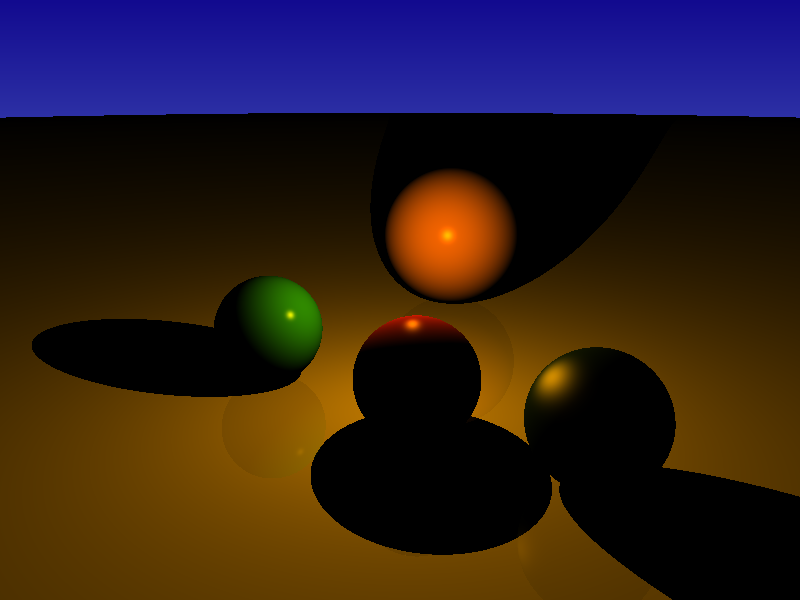
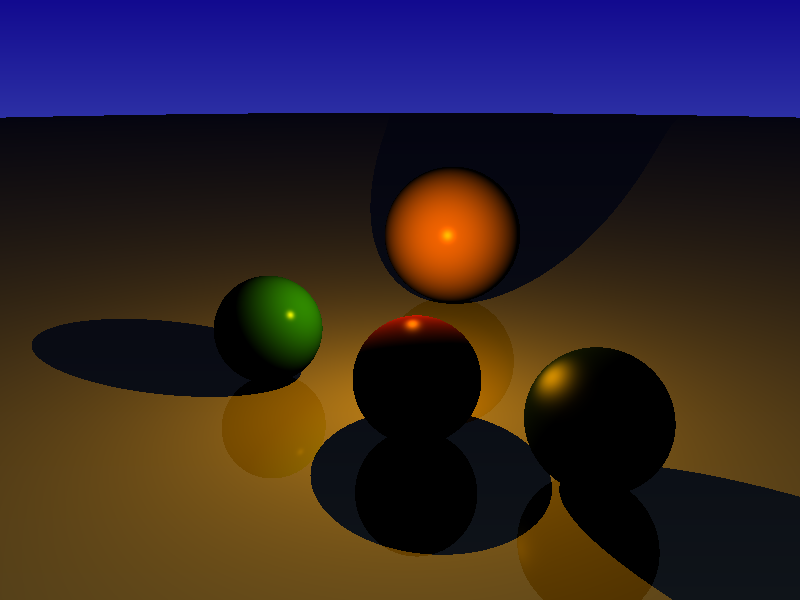
Fixing RGB values and color mix

Changed region(s): [[0.0, 0.93, 0.6875, 1.0], [0.7812, 0.93, 1.0, 1.0]]

diff --git a/include/integrator.hpp b/include/integrator.hpp
@@ -155,8 +155,13 @@ public:
                 {
                     color_ = c;
                 }
+                                
+                if(depth < max_depth){
+                    Ray reflected_ray = Ray(sf.p, ray.getDirection() - n*(2*(dot(ray.getDirection(),n))));
+                    color_ = color_ + bm->km() * Li(reflected_ray, scene, bkg_color, depth+1);
+                }
 
-                if (color_.v1 > 1.0)
+                 if (color_.v1 > 1.0)
                 {
                     color_.v1 = 1.0;
                 }
@@ -169,11 +174,6 @@ public:
                 if (color_.v3 > 1.0)
                 {
                     color_.v3 = 1.0;
-                }
-                                
-                if(depth < max_depth){
-                    Ray reflected_ray = Ray(sf.p, ray.getDirection() - n*(2*(dot(ray.getDirection(),n))));
-                    color_ = color_ + bm->km() * Li(reflected_ray, scene, color_, depth+1);
                 }
                 
             }
